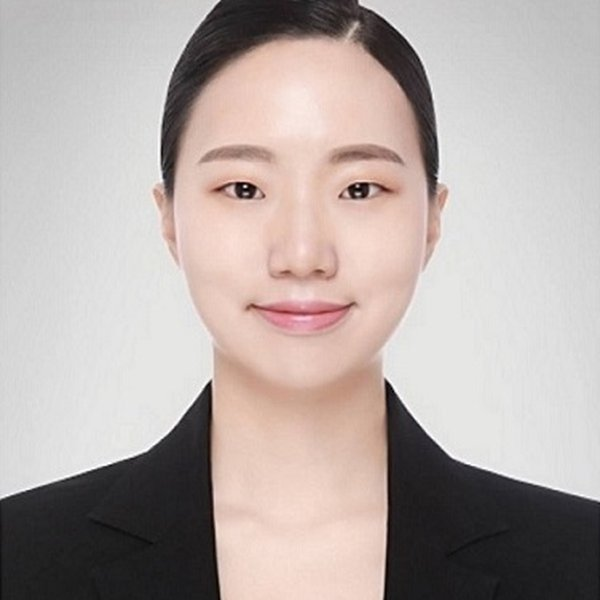
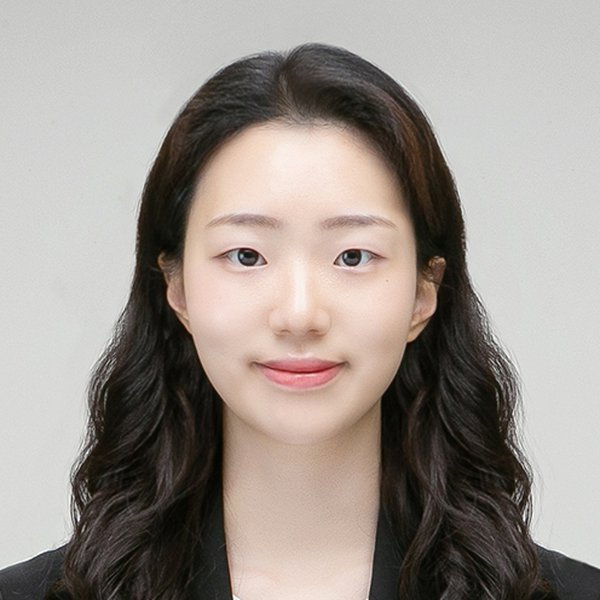
구성원·사진 정리: 팀 리뷰 반영
- 왕선희 이메일, 이현주 RCCS 기간(2019–2020) 수정
- 문진혁·백경민 박사과정으로, 홍승재·Blau·Yu Liang·조민서·Chao Liu 졸업생으로 이동
- 졸업생 학위·연도 보완, 공개 자료로 확인된 졸업생 현재 소속 반영(박소원·신나연 삼성)
- 신종수 연구조교수 추가(본인 홈페이지 기준 학력·경력·수상, 홈페이지 링크)
- 왕선희 사진 교체, 홈·소개 사진을 2026 한국기상학회 가을학술대회 단체사진으로 교체
  (기존 사진은 lab-intro_2022_POSTECH.jpg로 보관)
- t5.v02 소개 페이지: 마스트헤드와 겹치는 슬로건 리드 문구 제거

diff --git a/themes/t5.v02/templates/about.html b/themes/t5.v02/templates/about.html
@@ -1,7 +1,8 @@
 {% extends 'base.html' %}
 {% import '_t5.html' as x with context %}
 {% block ptitle %}{{ t('about.title') }}{% endblock %}
-{% block plead %}{{ tr(site.lab.tagline) }}{% endblock %}
+{# 슬로건은 맨 위 마스트헤드에 이미 있으므로 제목 아래 리드 문구는 두지 않는다 #}
+{% block plead_wrap %}{% endblock %}
 
 {% block content %}
 {% set pu = member_url(pi) %}
